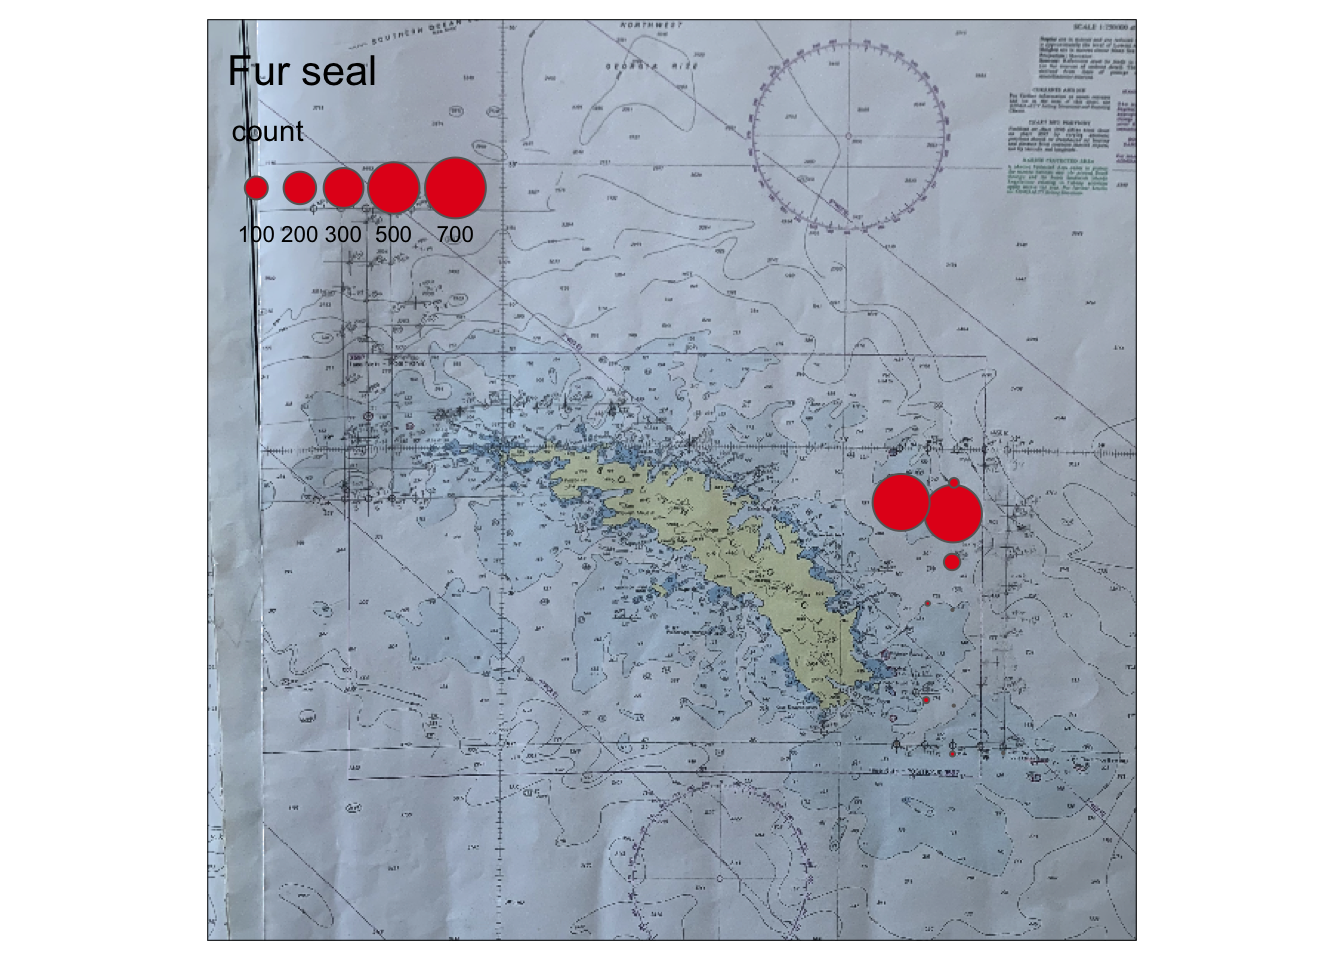
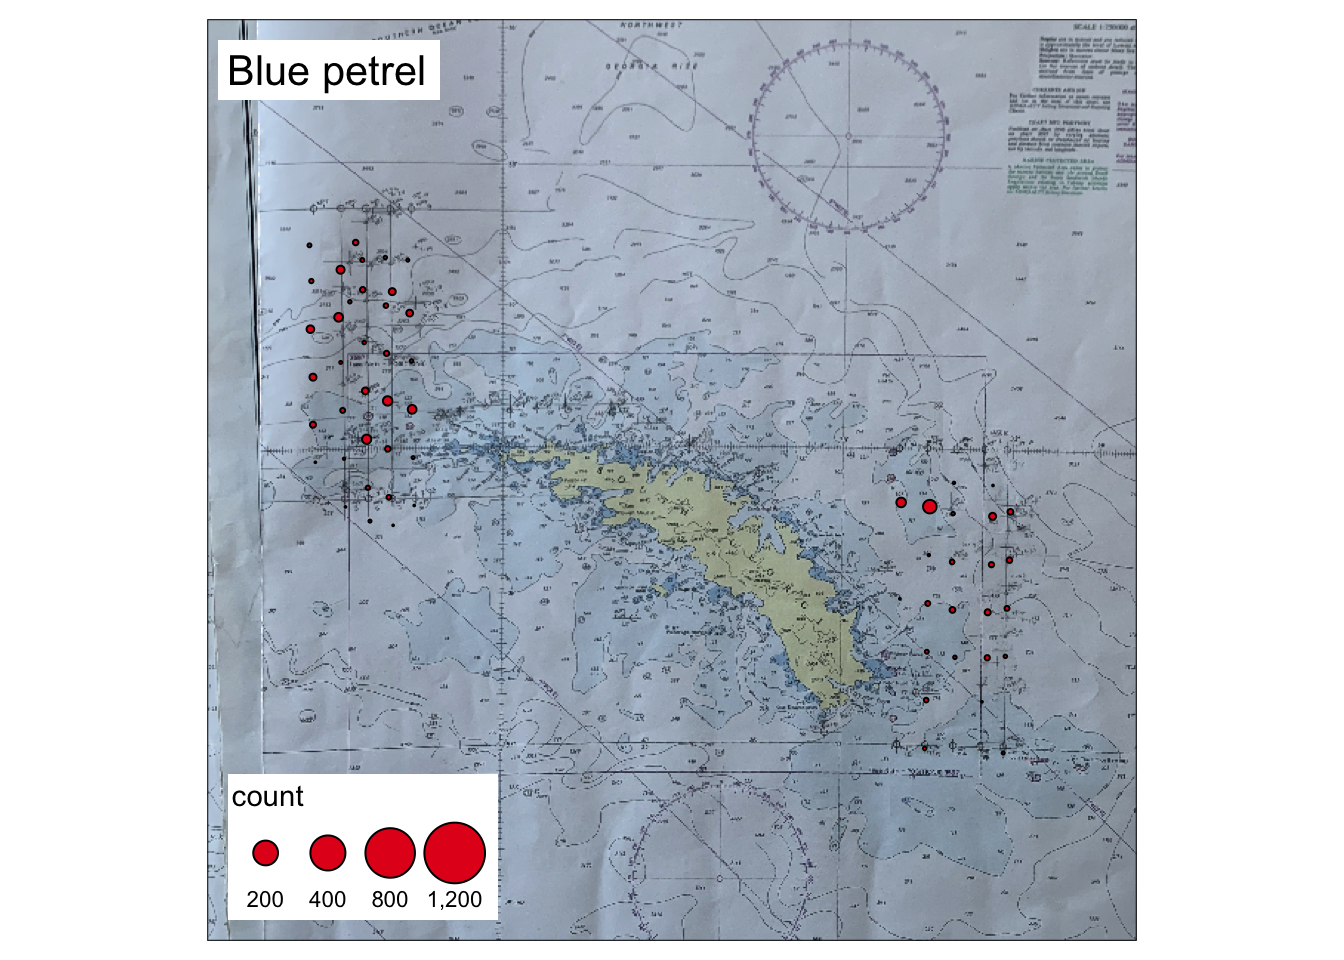
Daytime observations report

diff --git a/reports/Daytime.html b/reports/Daytime.html
@@ -60,9 +60,10 @@ ul.task-list li input[type="checkbox"] {
 
 </header>
 
+<p>The following figures are limited to observations collected while on effort for transects. E.g. July 16, which revisited transect 15-16 is excluded.</p>
 <section id="species-counts" class="level2">
-<h2 class="anchored" data-anchor-id="species-counts"><strong>Species counts</strong></h2>
-<p>Excluding July 16, which revisited transect 15-16 and accounts for 75% of total sightings due to anomalous diving petrel aggregation. Only species with 15+ individuals shown here.</p>
+<h2 class="anchored" data-anchor-id="species-counts">Species counts</h2>
+<p>Only species with 100+ individuals shown here.</p>
 <div class="cell">
 <div class="cell-output-display">
 <p><img src="Daytime_files/figure-html/species_counts-1.png" class="img-fluid" width="672"></p>
@@ -71,7 +72,7 @@ ul.task-list li input[type="checkbox"] {
 </section>
 <section id="species-distributions" class="level2">
 <h2 class="anchored" data-anchor-id="species-distributions">Species distributions</h2>
-<p>Maps of the 6 most numerous taxa: diving petrels (CODP+UNDP), fur seals, giant petrels (NGPT+SGPT+UGPT), cape petrels, South Georgia cormorants, and blue petrels. Also excludes July 16. Shown in 10 nm bins.</p>
+<p>Maps of the 6 most numerous taxa: diving petrels (CODP+UNDP), fur seals, giant petrels (NGPT+SGPT+UGPT), cape petrels, blue petrels, and Kerguelen petrels. Observations aggregated to 10 nm bins.</p>
 <div class="cell">
 <div class="cell-output-display">
 <p><img src="Daytime_files/figure-html/species_maps-1.png" class="img-fluid" style="width:100.0%"></p>
